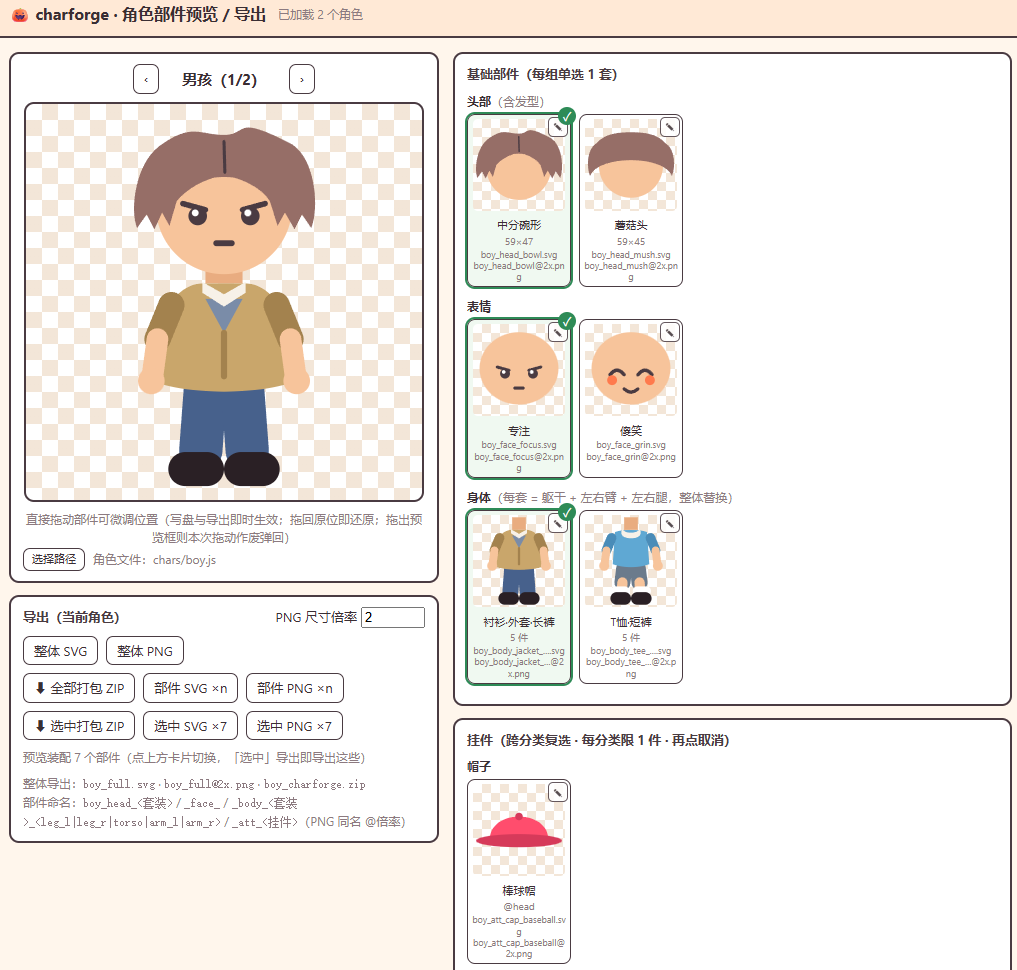
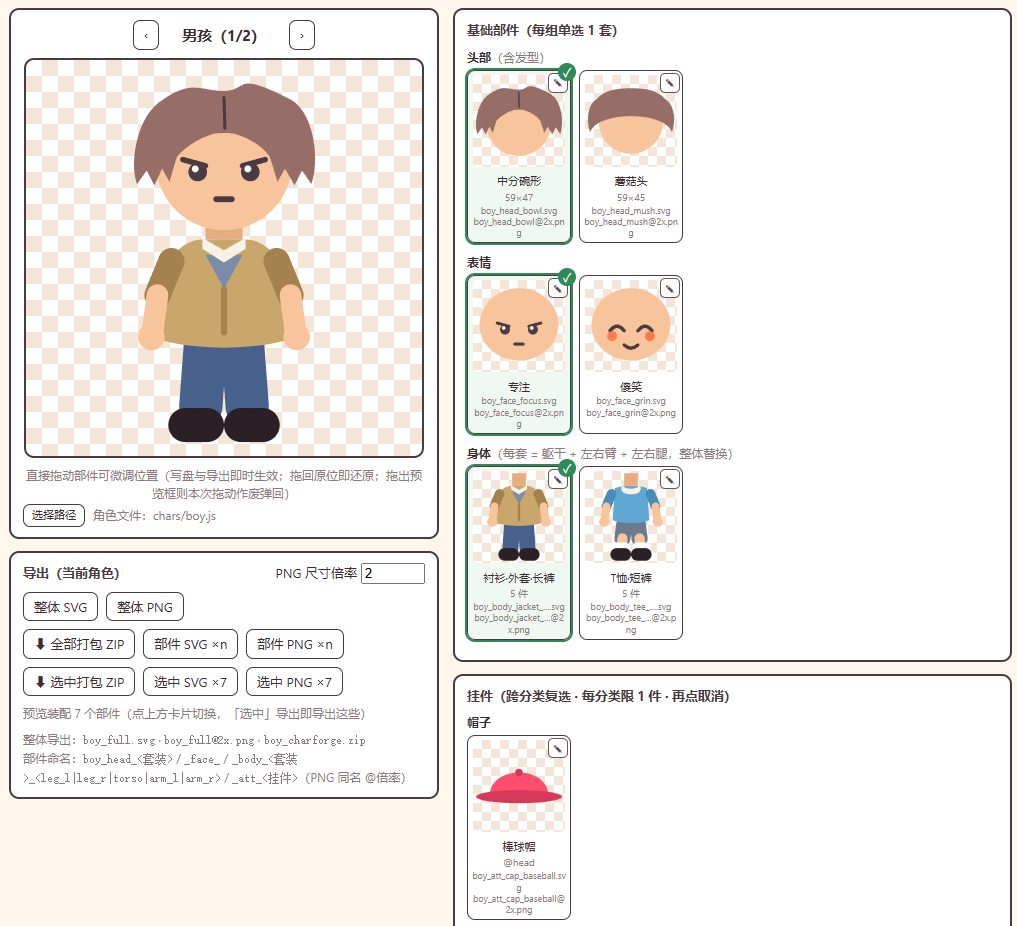
rename

Changed region(s): [[0.0, 0.0, 1.0, 0.9978]]

diff --git a/AGENTS.md b/AGENTS.md
@@ -1,8 +1,8 @@
-# AGENTS.md — CharForge 仓库工作指引
+# AGENTS.md — character-generation-skill 仓库工作指引
 
-给**在这个仓库里工作**的编码代理（改 `charforge.html`、批量改角色、加新角色、维护测试）。
-先读本文件再动手；完整的能力边界、决策表和「已踩过的坑」见 [`SKILL.md`](skill/charforge/SKILL.md)，
-角色文件格式真源见 [`references/format-spec.md`](skill/charforge/references/format-spec.md)。
+给**在这个仓库里工作**的编码代理（改 `Editor.html`、批量改角色、加新角色、维护测试）。
+先读本文件再动手；完整的能力边界、决策表和「已踩过的坑」见 [`SKILL.md`](skill/character-generation-skill/SKILL.md)，
+角色文件格式真源见 [`references/format-spec.md`](skill/character-generation-skill/references/format-spec.md)。
 
 > 只「用工具做角色 / 加角色 / 导出素材」的话不需要本目录——那是技能使用场景，走 SKILL.md。
 
@@ -12,17 +12,17 @@
 - 基础部件三组单选（`headsets` 头部 / `faces` 表情 / `bodies` 身体=5 件整体替换）+ 分类挂件
   `attachments`（跨分类复选、分类内单选）。
 - 存档即文件：每个角色一个自包含 `.js`，调用全局 `registerCharacter(def)` 注册。
-- **角色发现全自动**（charforge.html 同目录与下层 `chars/` 的 `.js`）：加 / 减角色**只放文件，
-  绝不该改 charforge.html**——HTML 里没有挂载清单。
+- **角色发现全自动**（Editor.html 同目录与下层 `chars/` 的 `.js`）：加 / 减角色**只放文件，
+  绝不该改 Editor.html**——HTML 里没有挂载清单。
 
 ## 关键文件地图
 
 | 路径 | 作用 | 要不要改 |
 |---|---|---|
-| `skill/charforge/app/charforge.html` | 单页应用（预览 / 拼装 / 编辑器 / 导出） | 只改 bug / 加交互；**勿动主逻辑与挂载机制** |
-| `skill/charforge/app/chars/*.js` | 角色存档 | 加角色就加这里 |
-| `skill/charforge/references/format-spec.md` | 角色文件格式**真源** | 写角色前必读 |
-| `skill/charforge/SKILL.md` | 决策表 + 红线 + 坑 | 改前先看 |
+| `skill/character-generation-skill/app/Editor.html` | 单页应用（预览 / 拼装 / 编辑器 / 导出） | 只改 bug / 加交互；**勿动主逻辑与挂载机制** |
+| `skill/character-generation-skill/app/chars/*.js` | 角色存档 | 加角色就加这里 |
+| `skill/character-generation-skill/references/format-spec.md` | 角色文件格式**真源** | 写角色前必读 |
+| `skill/character-generation-skill/SKILL.md` | 决策表 + 红线 + 坑 | 改前先看 |
 | `tests/verify.py` | 功能回归（153 项，Playwright） | 改 HTML / 批量改角色后跑 |
 | `tests/bbox_check.py` | 20% 一致性 + 贴边/越界自查 | 加角色后跑 |
 
@@ -30,20 +30,20 @@
 
 1. **问 Style**（如没给）：新风格 → 让用户给参考；同风格追加 → 读现有角色文件拿
    palette + anchors + 比例。
-2. **写角色文件**：严格按 `skill/charforge/references/format-spec.md`，**以现有角色文件为锚**
-   （例：`skill/charforge/app/chars/girl.js`），自包含绘图原语内联。**同风格比例基准别动**。
-3. **收纳**：写进 `skill/charforge/app/chars/`（默认角色文件夹）即完成——HTML 自动发现，
-   **不改 charforge.html**。
+2. **写角色文件**：严格按 `skill/character-generation-skill/references/format-spec.md`，**以现有角色文件为锚**
+   （例：`skill/character-generation-skill/app/chars/girl.js`），自包含绘图原语内联。**同风格比例基准别动**。
+3. **收纳**：写进 `skill/character-generation-skill/app/chars/`（默认角色文件夹）即完成——HTML 自动发现，
+   **不改 Editor.html**。
 4. **验收**：
-   - `node --check skill/charforge/app/chars/<角色名>.js`
-   - 打开 `skill/charforge/app/charforge.html` 肉眼验收 + 每套/挂件切一遍
+   - `node --check skill/character-generation-skill/app/chars/<角色名>.js`
+   - 打开 `skill/character-generation-skill/app/Editor.html` 肉眼验收 + 每套/挂件切一遍
    - `python tests/bbox_check.py`（一致性）与 `python tests/verify.py`（功能回归）
    - 导出 ZIP 解包验证：**SVG / PNG 各一份，文件数 = 头部套数 + 表情数 + 身体套数×5 + 挂件数**（另含整体 2 件）
-5. **交付**：把 `skill/charforge/app/`（charforge.html 与 chars/ 一起）整个目录拷给用户。
+5. **交付**：把 `skill/character-generation-skill/app/`（Editor.html 与 chars/ 一起）整个目录拷给用户。
 
 ## 硬规则（红线）
 
-- **加 / 减角色不改 charforge.html**（自动发现同目录与 `chars/`）。file:// 下 fetch 目录被
+- **加 / 减角色不改 Editor.html**（自动发现同目录与 `chars/`）。file:// 下 fetch 目录被
   CORS 拦是预期，页面走「选择文件夹」授权。
 - **挂件 `draw` 只能用挂点局部坐标**，不能写画布绝对坐标——页面会把挂件整体 translate 到锚点上。
   换算：局部 = 绝对 − anchors[slot]。复用的基础件辅助函数同理（`bigEye(72.8)` → `bigEye(8.8)`）。
@@ -68,12 +68,12 @@
   文本用 `TextEncoder().encode()`，PNG 先 `blob.arrayBuffer()` 再包 `Uint8Array`。
 - **PNG 导出防 NaN**：画布尺寸必须 `isFinite && >0`，画布 0 尺寸时 `toBlob` 返回 null 零报错。
 - **`exportZip` 只打包当前页角色**：双角色要翻页各导一次。
-- **编码**：`charforge.html` 是 **UTF-8（无 BOM）**，标题等中文均为正常 UTF-8 字节。改动时保持
+- **编码**：`Editor.html` 是 **UTF-8（无 BOM）**，标题等中文均为正常 UTF-8 字节。改动时保持
   UTF-8 写入，**勿用 ANSI/GBK 编码覆盖写**（否则中文会变乱码）。
 
 ## 测试 / 验收
 
-- 语法：`node --check skill/charforge/app/chars/*.js`
+- 语法：`node --check skill/character-generation-skill/app/chars/*.js`
 - 功能回归（153 项）：`python tests/verify.py`（Playwright，产物在 `tests/_artifacts/`）
 - 一致性自查：`python tests/bbox_check.py`（默认只报告不阻断；`--strict` 时违例退出码 1）
 - 无头测试的坑（加载两条通道 / 无头 alert 挂死 / 点击后 DOM 重建）见 [`tests/README.md`](tests/README.md)。
@@ -82,7 +82,7 @@
 
 ```bash
 # 语法检查
-node --check skill/charforge/app/chars/girl.js
+node --check skill/character-generation-skill/app/chars/girl.js
 
 # 一致性 + 功能回归
 python tests/bbox_check.py --strict

diff --git a/skill/charforge/SKILL.md b/skill/charforge/SKILL.md
@@ -1,14 +1,14 @@
 ---
-name: charforge
+name: character-generation-skill
 description: 用网页创建部件化 2D 游戏角色：128px chibi 角色，SVG 矢量按套装生成（头部/表情/身体三组单选，身体一套=躯干+四肢 5 件整体替换；帽子、眼镜、武器等挂件按分类选配），单页预览拼装效果、多角色分页展示，一键按部件 / 选中装配 / 整角色导出 SVG / PNG / ZIP。当用户要「做游戏角色 / 角色拆部件 / 出一套换装挂件角色 / 把角色素材导出给 Cocos 等引擎」「加个新角色，风格要和现有的一致」「给角色加帽子 / 武器 / 表情 / 换一套衣服」时使用。
 ---
 
-# CharForge · 部件化角色生成与导出
+# character-generation-skill · 部件化角色生成与导出
 
 一套「**一个 HTML + 每角色一个 .js**」的角色资产生产线。角色 128px 高、纯 SVG 矢量、
 无骨骼无动画，部件可单独导出，同 Style 部件尺寸差异强制 ≤20%（换装 / 换皮不穿帮）。
 
-- **存档即文件**：每个角色一个自包含 `.js`，双击 `app/charforge.html` 即可预览导出（file:// 直开，免服务器）
+- **存档即文件**：每个角色一个自包含 `.js`，双击 `app/Editor.html` 即可预览导出（file:// 直开，免服务器）
 - **基础部件三组单选**（页面卡片点选）：
   - **头部**（headsets）：头型+发型整头替换；
   - **表情**（faces）：单选一个，画在头上层（没有 noBaseFace 机制，基础表情就是一个普通选项）；
@@ -51,7 +51,7 @@ description: 用网页创建部件化 2D 游戏角色：128px chibi 角色，SVG
 | 加表情 / 换发型 / 换套装 | 分别往 `faces` / `headsets` / `bodies` 数组加一套（每类 ≥2 套时页面出现切换卡片） |
 | 手动微调某个资源的形状 | 部件卡右上角 **✎** 打开 SVG 编辑器：锚点/曲线手柄拖拽 + 数值输入，Ctrl+Z/Y 撤销重做，完成自动写回角色 .js |
 | 换角色所在文件夹 | 预览下方「选择路径」按钮：弹目录选择即加载（自动下潜 chars/ 子目录），路径行同步刷新 |
-| 验收 / 出货 | 打开 `app/charforge.html`：部件卡片无贴边红框 → 导出 ZIP |
+| 验收 / 出货 | 打开 `app/Editor.html`：部件卡片无贴边红框 → 导出 ZIP |
 
 ## 新建角色的固定流程（AI 执行）
 
@@ -59,7 +59,7 @@ description: 用网页创建部件化 2D 游戏角色：128px chibi 角色，SVG
    同风格追加 → 读现有角色文件拿 palette + anchors + 比例。
 2. **写角色文件**：严格按 `references/format-spec.md`。自包含（绘图原语内联，照抄 `app/chars/girl.js`
    开头那套 helper），文件名 = 角色名。**同风格比例基准别动**（见 format-spec 的纵向节奏表）。
-3. **收纳**：写进 `app/chars/`（默认角色文件夹）即完成——HTML 自动发现，**不改 charforge.html**。
+3. **收纳**：写进 `app/chars/`（默认角色文件夹）即完成——HTML 自动发现，**不改 Editor.html**。
    （file:// 下授权任意文件夹都能读：授权文件夹顶层无 .js 时会自动下潜其 chars/ 子目录；
    保存补丁写回角色来源目录，不会落到上层。）
 4. **验收**：
@@ -71,7 +71,7 @@ description: 用网页创建部件化 2D 游戏角色：128px chibi 角色，SVG
      头部套数+表情数+身体套数×5+挂件数，SVG/PNG 各一份）
 5. **交付**：`app/` 目录整个给用户（html 与 `chars/` 一起拷走；file:// 下授权任意文件夹也能读）。
 
-**角色加载机制**（charforge.html 自动，勿手挂）：
+**角色加载机制**（Editor.html 自动，勿手挂）：
 - http(s) 打开：fetch 本页所在目录索引 → 自动加载其中全部 .js（目录索引需服务开启；json 列表也支持）；
 - file:// 双击打开：File System Access 流程——首次点「📂 选择角色文件夹」授权一次（showDirectoryPicker，
   弹的是系统文件夹选择框，无法绕过），句柄存 IndexedDB；之后每次打开**权限仍在就启动静默直读**，
@@ -112,7 +112,7 @@ description: 用网页创建部件化 2D 游戏角色：128px chibi 角色，SVG
 - **换算旧资产坐标**（200 宽 → 128）：逐点套 `x' = 64+(x-100)*0.61` 重算，
   别心算——女孩发盖曾因一组控制点算错整片偏左，渲染出尖刺刘海。
 - **角色发现是全自动的**（html 同级及 chars/ 下的 .js，顶层无 .js 自动下潜 chars/），HTML 里没有挂载清单
-  ——加角色只需放文件，**不改 charforge.html**。file:// 下 fetch 目录被 CORS 拦是预期，页面走「选择文件夹」授权。
+  ——加角色只需放文件，**不改 Editor.html**。file:// 下 fetch 目录被 CORS 拦是预期，页面走「选择文件夹」授权。
 - **`exportZip` 只打包当前页角色**（SVG+PNG 各 = 头部套数+表情数+身体套数×5+挂件数，
   另加整体 2 件），双角色要翻页各导一次。
 - **页面渲染函数必须防 `def` 为空**：0 角色时 `renderAll` 也会跑全部 renderXxx——

diff --git a/README_en.md b/README_en.md
@@ -1,10 +1,10 @@
 <p align="center"><b>English | <a href="README.md">中文</a></b></p>
 
-# CharForge · Part-based 2D Game Character Generation & Export
+# character-generation-skill · Part-based 2D Game Character Generation & Export
 
-**A character-generation SKILL that works with an Agent**: the Agent generates 128px chibi game characters from your description — pure SVG vector art, no skeleton, no animation, modular and outfit-swappable. After generation you can open `charforge.html` to manually fine-tune, preview, and export, producing universal SVG / PNG assets usable in any engine.
+**A character-generation SKILL that works with an Agent**: the Agent generates 128px chibi game characters from your description — pure SVG vector art, no skeleton, no animation, modular and outfit-swappable. After generation you can open `Editor.html` to manually fine-tune, preview, and export, producing universal SVG / PNG assets usable in any engine.
 
-![CharForge UI](assets/webui.png)
+![character-generation-skill UI](assets/webui.png)
 
 ## How to Install
 
@@ -15,7 +15,7 @@ Give your Agent the `skill` directory and let it install it for you.
 > What's generated directly usually isn't usable as-is — three steps make it a finished asset.
 
 1. **Generate with the Skill**: give the Agent a one-line description (style + character + what you want). The Agent generates the character assets per the skill's rules — head / face / body groups, plus accessories like hats, glasses, and weapons. Each character is a self-contained `.js` file; drop it into `app/chars/` and you're done (auto-discovered, no HTML to edit).
-2. **Fine-tune manually**: open `app/charforge.html` and take over — preview the assembled result; drag items on the stage to reposition; click a part's ✎ to open the SVG editor and hand-edit shapes / anchors / colors (undo/redo supported).
+2. **Fine-tune manually**: open `app/Editor.html` and take over — preview the assembled result; drag items on the stage to reposition; click a part's ✎ to open the SVG editor and hand-edit shapes / anchors / colors (undo/redo supported).
 3. **Export assets**: single parts, the currently selected assembly, or the whole character — one-click packaging as SVG / PNG / ZIP, produced as universal assets usable in any engine.
 
 > One HTML is a runnable tool: double-click to use, no server needed, and the whole `app/` directory can be copied away for delivery.

diff --git a/README.md b/README.md
@@ -1,10 +1,10 @@
 <p align="center"><b><a href="README_en.md">English</a> | 中文</b></p>
 
-# CharForge · 部件化 2D 游戏角色生成与导出
+# character-generation-skill · 部件化 2D 游戏角色生成与导出
 
-**配合 Agent 使用的角色生成 SKILL**：由 Agent 按描述生成 128px chibi 游戏角色（纯 SVG 矢量、无骨骼无动画、部件化可换装），生成后还能开 `charforge.html` 手动微调、预览和导出，导出为通用 SVG / PNG 素材，任何引擎都能直接使用。
+**配合 Agent 使用的角色生成 SKILL**：由 Agent 按描述生成 128px chibi 游戏角色（纯 SVG 矢量、无骨骼无动画、部件化可换装），生成后还能开 `Editor.html` 手动微调、预览和导出，导出为通用 SVG / PNG 素材，任何引擎都能直接使用。
 
-![CharForge 工具界面](assets/webui.png)
+![character-generation-skill 工具界面](assets/webui.png)
 
 ## 使用说明
 
@@ -15,7 +15,7 @@
 > 直接生成的成果通常不能直接用，三步走完才算成品。
 
 1. **用 Skill 生成**：给 Agent 一句话描述（风格 + 角色 + 想要什么），Agent 按技能规则生成角色素材——头部 / 表情 / 身体三组，加上帽子、眼镜、武器等挂件。每个角色就是一个自包含的 `.js` 文件，放进 `app/chars/` 即完成（工具自动发现，不用改任何 HTML）。
-2. **手动微调**：打开 `app/charforge.html` 人工接手——预览拼装效果；舞台上拖拽定位；点部件的 ✎ 打开 SVG 编辑器手动改形状 / 锚点 / 颜色（支持撤销/重做）。
+2. **手动微调**：打开 `app/Editor.html` 人工接手——预览拼装效果；舞台上拖拽定位；点部件的 ✎ 打开 SVG 编辑器手动改形状 / 锚点 / 颜色（支持撤销/重做）。
 3. **导出资源**：单部件、当前选中装配、或整角色，SVG / PNG / ZIP 一键打包，导出为通用素材，任何引擎都能直接用。
 
 > 一个 HTML 就是一个可运行的工具，双击即可用、免服务器，`app/` 整个目录拷走即交付。

diff --git a/tests/README.md b/tests/README.md
@@ -1,13 +1,13 @@
-# charforge tests · 开发与验收工具
+# character-generation-skill tests · 开发与验收工具
 
-本目录脚本服务于 charforge **本身的开发与验收**——改 `app/charforge.html`、批量改角色、
+本目录脚本服务于 character-generation-skill **本身的开发与验收**——改 `app/Editor.html`、批量改角色、
 排查行为问题时防回归用。只是「用工具做角色 / 加角色 / 导出素材」的话，不需要本目录。
 
 ## 环境依赖（两个脚本一致）
 
 - Python 3.9+ 与 playwright：`pip install playwright`
 - 浏览器优先用系统 Edge；没有 Edge 自动退回 Playwright chromium（需先 `playwright install chromium`）
-- 用法：`python <脚本> [charforge.html 所在目录]`，缺省 = 仓库自带 `app/`
+- 用法：`python <脚本> [Editor.html 所在目录]`，缺省 = 仓库自带 `app/`
 - verify.py 的产物（截图 / 下载包 / 往返页）写在 `tests/_artifacts/`，可随时删
 
 ## verify.py — 功能回归（153 项）
@@ -19,7 +19,7 @@
 越界作废弹回·启动重置·静默写盘）/ PNG 尺寸倍率门闩（含真实导出尺寸断言）/ 来源路径行三种格式 /
 chars/ 下潜与 FSA 直写。
 
-**改 charforge.html 或批量改角色后应跑一遍**；写新测试可仿照它裁剪。
+**改 Editor.html 或批量改角色后应跑一遍**；写新测试可仿照它裁剪。
 
 ## bbox_check.py — 一致性自查
 
@@ -29,7 +29,7 @@ chars/ 下潜与 FSA 直写。
 - 例外政策：发型还原度等有意取舍（如垂发 vs 短发）可豁免——自带样例 girl/boy 有 6 处
   已知违例（双马尾头宽 +33%、男外套躯干 +38% 等），属保留还原度的设计决定。
 
-## 页面自动化钩子（charforge.html「自动化 / LLM 调试钩子」区）
+## 页面自动化钩子（Editor.html「自动化 / LLM 调试钩子」区）
 
 - `__CHARFORGE__.chars / texts / names / errors / srcDir / dirHandle`——注册器与状态
 - `__CHARFORGE__.renderAll()`——强制重渲染

diff --git a/skill/charforge/references/format-spec.md b/skill/charforge/references/format-spec.md
@@ -1,4 +1,4 @@
-# charforge 角色存档格式规范（真源）· 套装变体格式 v2
+# character-generation-skill 角色存档格式规范（真源）· 套装变体格式 v2
 
 > 每个角色一个自包含 `.js`，调用全局 `registerCharacter(def)` 注册。
 > 现成样例：`app/chars/girl.js`（女孩）、`app/chars/boy.js`（男孩）——写新角色先读其中一个再动手。
@@ -125,12 +125,12 @@ anchors: {
   ③浏览器无 FSA → 才自动下载同名 .js 提示替换。showSaveFilePicker 单文件通道已移除。
 
 ## 存放与发现（默认 chars/）
-- 角色 .js 默认放 `chars/` 文件夹（与 charforge.html 同级）。
+- 角色 .js 默认放 `chars/` 文件夹（与 Editor.html 同级）。
 - file://：授权任意文件夹都能读——顶层有 .js 读顶层；顶层无 .js 但存在 `chars/` 子目录时**自动下潜**读取。
 - http(s)：自动扫描本目录索引；顶层无 .js 时自动扫描 `chars/`。
 - 授权/发现记录来源目录（srcDir），编辑器保存补丁写回来源目录。
 
-## 页面行为（charforge.html，勿改主逻辑）
+## 页面行为（Editor.html，勿改主逻辑）
 
 - 加载顺序：注册器内联脚本 → `discoverChars()` 自动发现**同目录**下的 .js（http 走目录索引；
   file:// 走 FSA 文件夹授权一次 + 句柄存 IndexedDB，之后启动静默直读 / 一键重连）→ 主逻辑。
